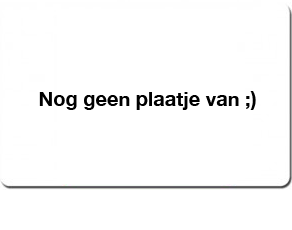
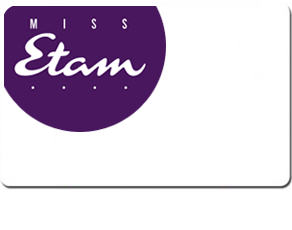
new scrapers & gfx

Changed region(s): [[0.0, 0.0, 0.8938, 0.5783]]

diff --git a/index.html b/index.html
@@ -224,12 +224,14 @@ var allcards = new Array(
     new Array("anwb", "ANWB", ""),
     new Array("bartsmit", "Bart Smit", "3040012188580701179"),
     new Array("bijenkorf", "Bijenkorf", "901000007890000634092956"),
+    new Array("bioscoopcadeau", "BioscoopCadeau", ""),
     new Array("bol", "Bol.com", ""),
     new Array("efteling", "Efteling", ""),
     new Array("fashioncheque", "Fashioncheque", "6046425110188147616"),
     new Array("hema", "HEMA", "300416828647599"),
     new Array("intratuin", "Intratuin", "6064362091069735993"),
     new Array("karwei", "Karwei", ""),
+    new Array("lief", "Lief!", ""),
     new Array("missetam", "Miss Etam", ""),
     new Array("nationaleentertainmentcard", "Nat. Entertainment Card", ""),
     new Array("prenatal", "Prénatal", "3080017005005856058"),
